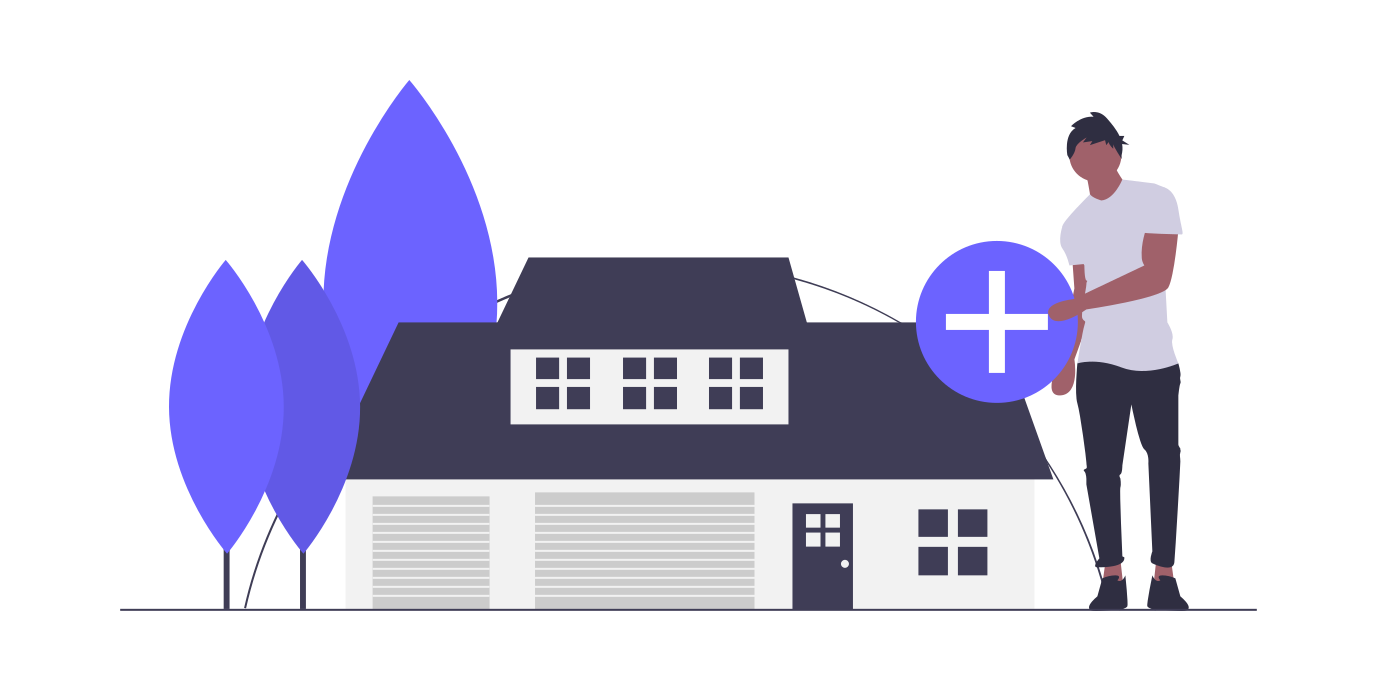
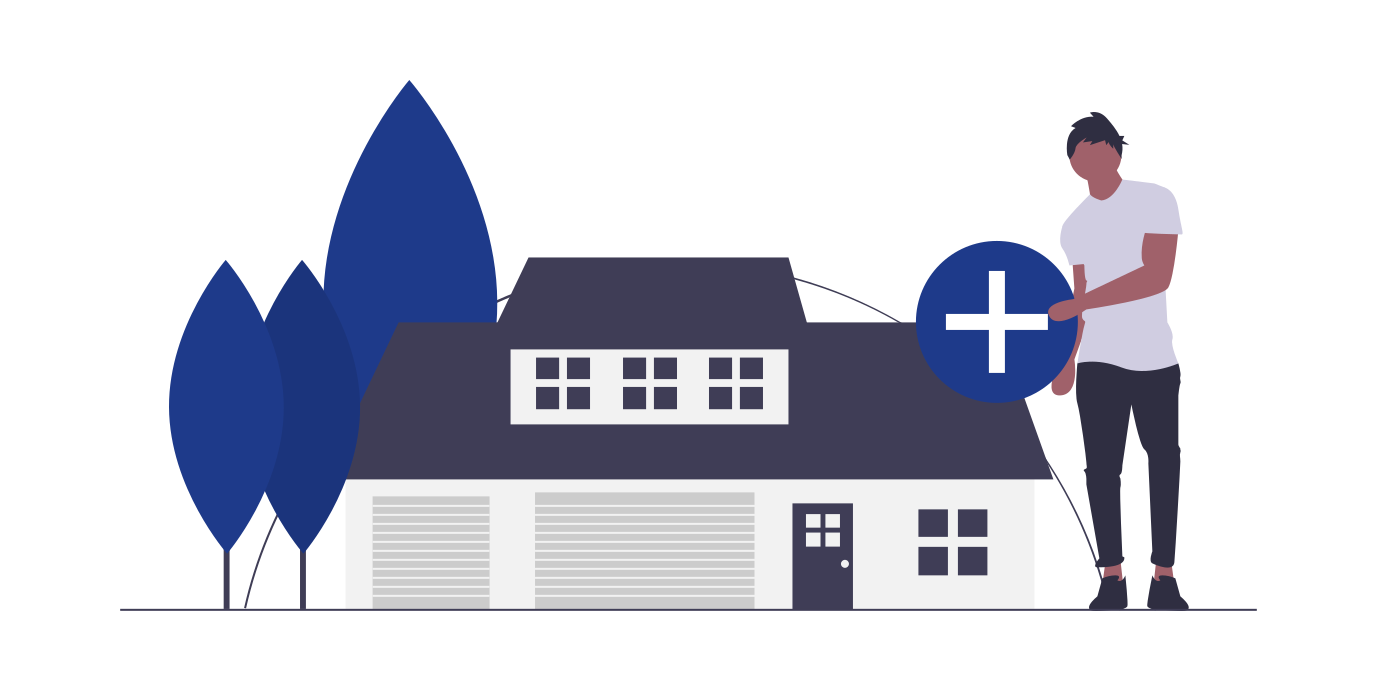
Fix: change UI color scheme

Changed region(s): [[0.1249, 0.1216, 0.3747, 0.7902], [0.6558, 0.3343, 0.7807, 0.6078]]

diff --git a/src/components/Login.vue b/src/components/Login.vue
@@ -39,7 +39,7 @@
                 <strong>a bit at a time</strong> - Desmond Tutu.
               </blockquote>
               <div class="space-x-2 text-white mt-2">
-                <button class="p-2 bg-black rounded-md hover:bg-gray-100">
+                <button class="p-2 bg-blue-900 rounded-md hover:bg-gray-100">
                   Register
                 </button>
                 <button class="p-2 bg-black rounded-md hover:bg-gray-100">
@@ -55,7 +55,7 @@
       </div>
     </div>
 
-    <div class="grid place-items-center mt-4 bg-green-50">
+    <div class="grid place-items-center mt-4 bg-blue-900 text-white">
       <div class="container">
         <div class="grid place-items-center p-8">
           <p class="text-3xl">Why AssetifyMe?</p>
@@ -70,7 +70,7 @@
             Lousiana.
           </p>
           <button
-            class="p-2 bg-black text-white rounded-md hover:bg-gray-100 mt-2"
+            class="p-2 bg-black text-white rounded-md hover:bg-blue-700 mt-2"
           >
             Start Buying
           </button>
@@ -79,7 +79,7 @@
     </div>
 
     <div class="grid h-52  mt-4 rounded-lg items-center place-items-center">
-      <p class="text-5xl font-extrabold p-10 bg-clip-text text-transparent bg-gradient-to-r from-green-500 to-blue-500">
+      <p class="text-5xl font-extrabold p-10 bg-clip-text text-transparent bg-gradient-to-r from-blue-900 to-violet-700">
         Start owning an asset with as little as <span class="underline underline-offset-1">&#8358;1000</span>
       </p>
     </div>
@@ -95,9 +95,9 @@
         md:space-y-0
       "
     >
-      <div class="p-5 rounded-2xl bg-green-50">
+      <div class="p-5 rounded-2xl bg-blue-50">
         <div class="p-4 rounded-md">
-          <fa icon="pen" class="bg-green-500 text-white p-4 rounded-md" />
+          <fa icon="pen" class="bg-blue-900 text-white p-4 rounded-md" />
           <p class="text-3xl font-semibold">Sign Up</p>
         </div>
         <p class="pl-4 pr-4">
@@ -105,13 +105,13 @@
           falls in place.
         </p>
         <div class="p-4 rounded-md">
-          <fa icon="arrow-right" class="bg-green-300 text-white p-2 rounded-full" />
+          <fa icon="arrow-right" class="bg-blue-300 text-white p-2 rounded-full" />
         </div>
       </div>
 
-      <div class="p-5 rounded-2xl bg-green-50">
+      <div class="p-5 rounded-2xl bg-blue-50">
         <div class="p-4 rounded-md">
-          <fa icon="calendar" class="bg-green-500 text-white p-4 rounded-md" />
+          <fa icon="calendar" class="bg-blue-900 text-white p-4 rounded-md" />
           <p class="text-3xl font-semibold">Setup a Plan</p>
         </div>
         <p class="pl-4 pr-4">
@@ -119,20 +119,20 @@
           asset you want.
         </p>
         <div class="p-4 rounded-md">
-          <fa icon="arrow-right" class="bg-green-300 text-white p-2 rounded-full" />
+          <fa icon="arrow-right" class="bg-blue-300 text-white p-2 rounded-full" />
         </div>
       </div>
 
-      <div class="p-5 rounded-2xl bg-green-50">
+      <div class="p-5 rounded-2xl bg-blue-50">
         <div class="p-4 rounded-md">
-          <fa icon="house" class="bg-green-500 text-white p-4 rounded-md" />
+          <fa icon="house" class="bg-blue-900 text-white p-4 rounded-md" />
           <p class="text-3xl font-semibold">Claim Your Asset</p>
         </div>
         <p class="pl-4 pr-4">
           Claim your asset and all documents on completion of payment.
         </p>
         <div class="p-4 rounded-md">
-          <fa icon="arrow-right" class="bg-green-300 text-white p-2 rounded-full" />
+          <fa icon="arrow-right" class="bg-blue-300 text-white p-2 rounded-full" />
         </div>
       </div>
     </div>
@@ -161,7 +161,7 @@
   </div>
 
   <div class="md:grid md:grid-cols-4 md:gap-2 text-center p-8 rounded-md place-items-center space-y-4 md:space-y-0">
-    <div class="bg-green-100 rounded-md p-8">
+    <div class="bg-blue-100 rounded-md p-8">
       <p class="font-extrabold">Buy in Bits</p>
       <p class="text-justify text-sm">
         Pay for lands and houses in bits according to your budget daily, weekly, monthly or even yearly
@@ -169,21 +169,21 @@
       </p>
     </div>
 
-    <div class="bg-green-100 rounded-md p-8">
+    <div class="bg-blue-100 rounded-md p-8">
       <p class="font-extrabold">Asset Padi</p>
       <p class="text-justify text-sm">
         Herness the power of working as a group. Invite your friends, form a clique and purchase assets together.
       </p>
     </div>
 
-    <div class="bg-green-100 rounded-md p-8">
+    <div class="bg-blue-100 rounded-md p-8">
       <p class="font-extrabold">Spot Swap</p>
       <p class="text-justify text-sm">
         If you are in a fix and need money ASAP, you can swap your spot on the system automatically.
       </p>
     </div>
     
-    <div class="bg-green-100 rounded-md p-8">
+    <div class="bg-blue-100 rounded-md p-8">
       <p class="font-extrabold">Agent A</p>
       <p class="text-justify text-sm">
         Refer your friends and family and if

diff --git a/tailwind.config.js b/tailwind.config.js
@@ -4,7 +4,11 @@ module.exports = {
     "./src/**/*.{vue,js,ts,jsx,tsx}",
   ],
   theme: {
-    extend: {},
+    extend: {
+      colors: {
+        'blue-magenta': '#6C63FF',
+      },
+    },
   },
   plugins: [],
 }
